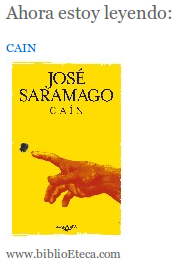
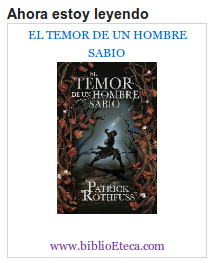
Version 1.5
git-svn-id: https://plugins.svn.wordpress.org/estoyleyendo/trunk@496041 b8457f37-d9ea-0310-8a92-e5e31aec5664

diff --git a/imreading.php b/imreading.php
@@ -2,9 +2,9 @@
 /*
  Plugin Name: Imreading
  Plugin URI: http://blog.biblioeteca.com/widgets-plugins-y-demas/imreading-widget/
- Description: Muestra que libro está leyendo actualmente un usuario biblioEteca
+ Description: Muestra los libros está leyendo actualmente un usuario biblioEteca
  Author: José Antonio Espinosa
- Version: 1.4.1
+ Version: 1.5
  Author URI: http://www.biblioeteca.com/
  */
 
@@ -18,7 +18,7 @@ class Imreading {
 
 
 	function activate(){
-		$data = array( 'Usuario' => 'usuarioBiblioEteca','Titulo' => 'Estoy leyendo');
+		$data = array( 'Usuario' => 'usuarioBiblioEteca','Titulo' => 'Estoy leyendo','Noleo' => 'Ahora no estoy leyendo nada');
 		if ( ! get_option('configuracion')){
 			add_option('configuracion' , $data);
 		} else {
@@ -37,11 +37,14 @@ class Imreading {
 	type="text" value="<?php echo $data['Usuario']; ?>" /></label></p>
 <p><label>Titulo/Comentario<input name="configuracion_option2"
 	type="text" value="<?php echo $data['Titulo']; ?>" /></label></p>
+<p><label>Si no leo<input name="configuracion_option3"
+	type="text" value="<?php echo $data['Noleo']; ?>" /></label></p>
 
 		<?php
 		if (isset($_POST['configuracion_option1'])){
 			$data['Usuario'] = attribute_escape($_POST['configuracion_option1']);
 			$data['Titulo'] = attribute_escape($_POST['configuracion_option2']);
+			$data['Noleo'] = attribute_escape($_POST['configuracion_option3']);
 
 			update_option('configuracion', $data);
 		}
@@ -50,6 +53,8 @@ class Imreading {
 
 
 	function widget($args){
+		extract($args);
+		
 		$opciones     = get_option( "configuracion" );
 
 		//con un usuario dado buscamos en su página de "leyendo"
@@ -61,9 +66,11 @@ class Imreading {
 		$server="http://www.biblioeteca.com";
 		//configurable
 		$comment=$opciones['Titulo'];
+		// configurable
+		$noleo=$opciones['Noleo'];
 
 		$existe=false;
-        $url='/biblioeteca.web/libros/leyendo/';
+        $url='/biblioeteca.web/widgets/imreading/';
 
         $fp=@fopen($server.$url.$userBiblioeteca,"r");
         if($fp){
@@ -71,8 +78,8 @@ class Imreading {
            $existe= true;
         }else{
             //Acciones a realizar en caso de que no exista
-           $existe= false;
-	   @fclose($fp);
+           	$existe= false;
+	   		@fclose($fp);
         }
 
 	$noleo=false;
@@ -82,61 +89,36 @@ class Imreading {
 	while (!@feof($fp)) {
 	  $source .= @fread($fp, 8192);
 	}
-	@fclose($fp);
-
-			if (!strpos($source,"No tiene libros"))
+	@fclose($handle);
+	echo $before_widget;
+	echo $before_title.$comment.$after_title;
+			if (strpos($source,"img")>0)
 			{
-				$libros = stristr($source,"<div id=\"biblioeteca\">");
-				$linkLibro = stristr($libros,"<a href=\"");
-				$linkLibro = substr($linkLibro,9,stripos($linkLibro,"\">")-9);
-				$linkLibro=$server.$linkLibro;
-		
-				//cogemos datos como la imagen a mostrar en nuestro widget
-				$otherSource = file_get_contents($linkLibro)or die('se ha producido un error');
-				$imagenes = stristr($otherSource,"<div id=\"libro_portada\">");
-				$linkImagen = stristr($imagenes,"<img src=\"");
-				$linkImagen = substr($linkImagen,10,stripos($linkImagen,"\" class=\"portada\"")-10);
-		
-				$titulo=stristr($otherSource,"<title>");
-				$titulo=substr($titulo,7,stripos($titulo,"- BiblioEteca")-7);
-		
-				echo "<li class='widget-container widget_text sidebox'>";
-				echo "<h3 class='widget-title'>".$comment.":</h3>";
-				echo "<br/>";
-				echo "<a href ='".$linkLibro."'>".$titulo."</a>";
-				echo "<br/>";
-				echo "<a href ='".$linkLibro."'><img src='".$linkImagen."'/></a>";
-				echo "<br/>";
-				echo "<a href='http://www.biblioeteca.com'>www.biblioEteca.com</a>";
-				echo "</li>";
+				echo $source;
 			}
 			else {
 				$noleo=true;
         	}
         }
-	if (!$existe)
-	{
-	        echo "<li class='widget-container widget_text sidebox'>";
-		echo "<h3 class='widget-title'>".$comment.":</h3>";
-	        echo "<br/>";
-	        echo "Problemas de conectividad con BiblioEteca";
-	        echo "<br/>";
-	        echo "<a href='http://www.biblioeteca.com'>www.biblioEteca.com</a>";
-	        echo "</li>";
-
-	}
+        
+		if (!$existe)
+		{
+				
+		        echo "<br/>";
+		        echo "Problemas de conectividad con BiblioEteca";
+		        echo "<br/>";
+		        echo "<a href='http://www.biblioeteca.com'>www.biblioEteca.com</a>";
+		}
 
         if ($noleo)
-        
         {
-	        echo "<li class='widget-container widget_text sidebox'>";
-			echo "<h3 class='widget-title'>".$comment.":</h3>";
 	        echo "<br/>";
-	        echo "En este momento no estoy leyendo nada.";
+	        echo $noleo;
 	        echo "<br/>";
 	        echo "<a href='http://www.biblioeteca.com'>www.biblioEteca.com</a>";
-	        echo "</li>";
         }
+        
+        echo $after_widget;
 	}
 
 	function register(){
